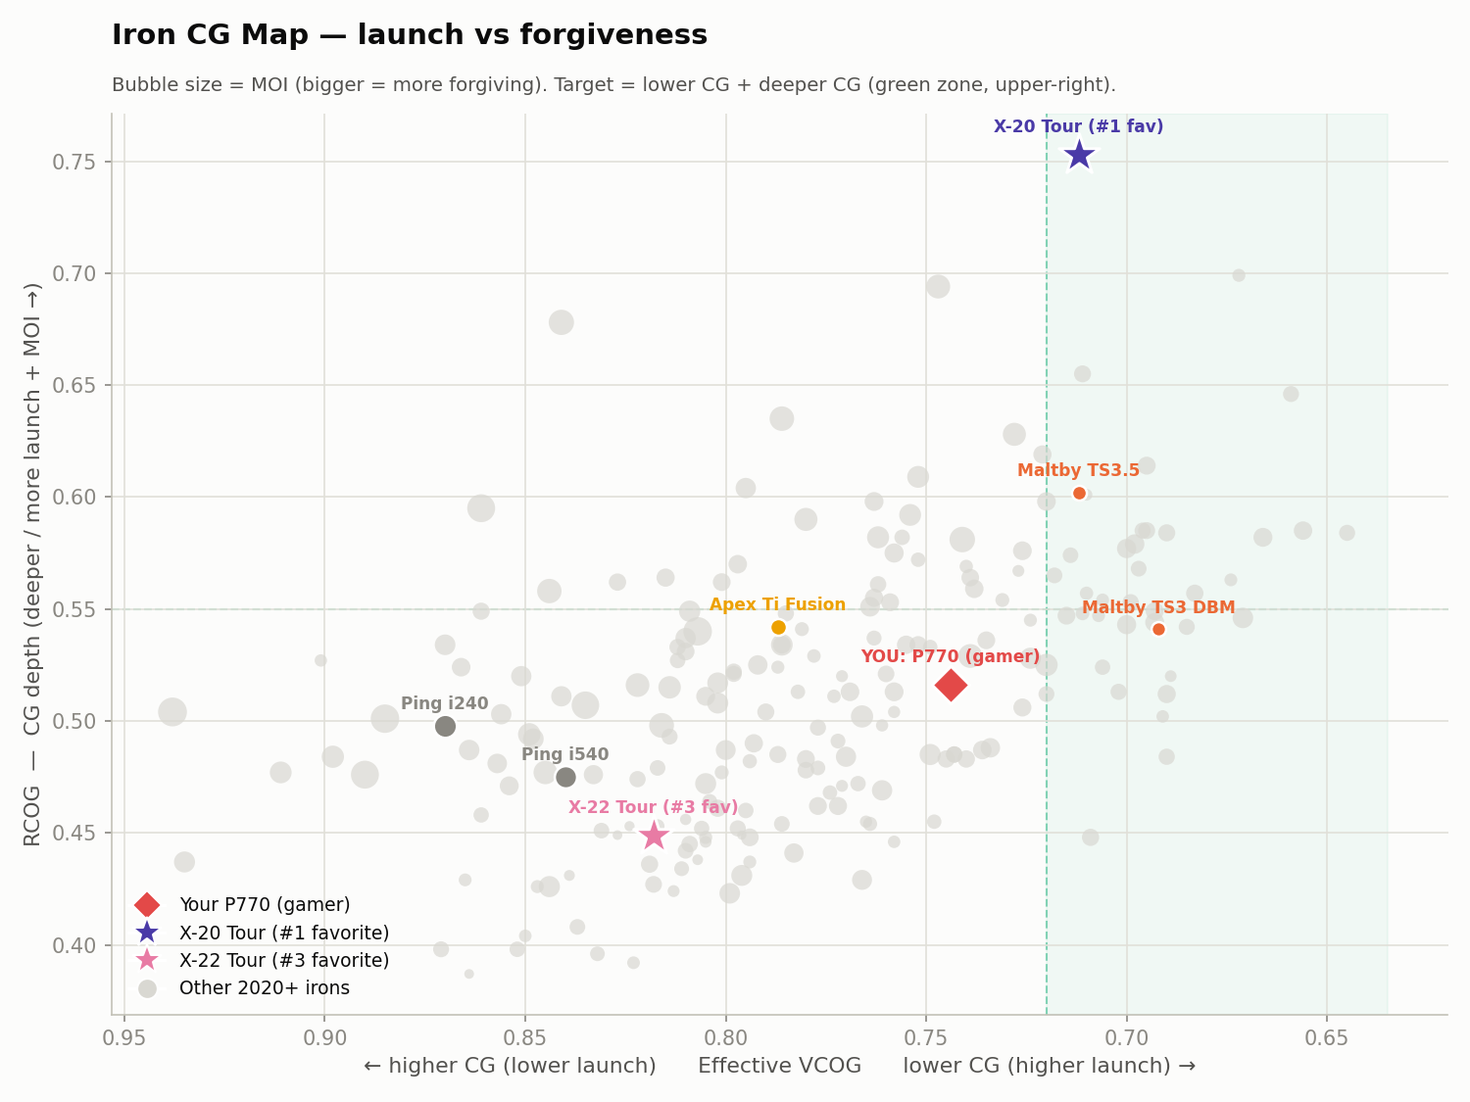
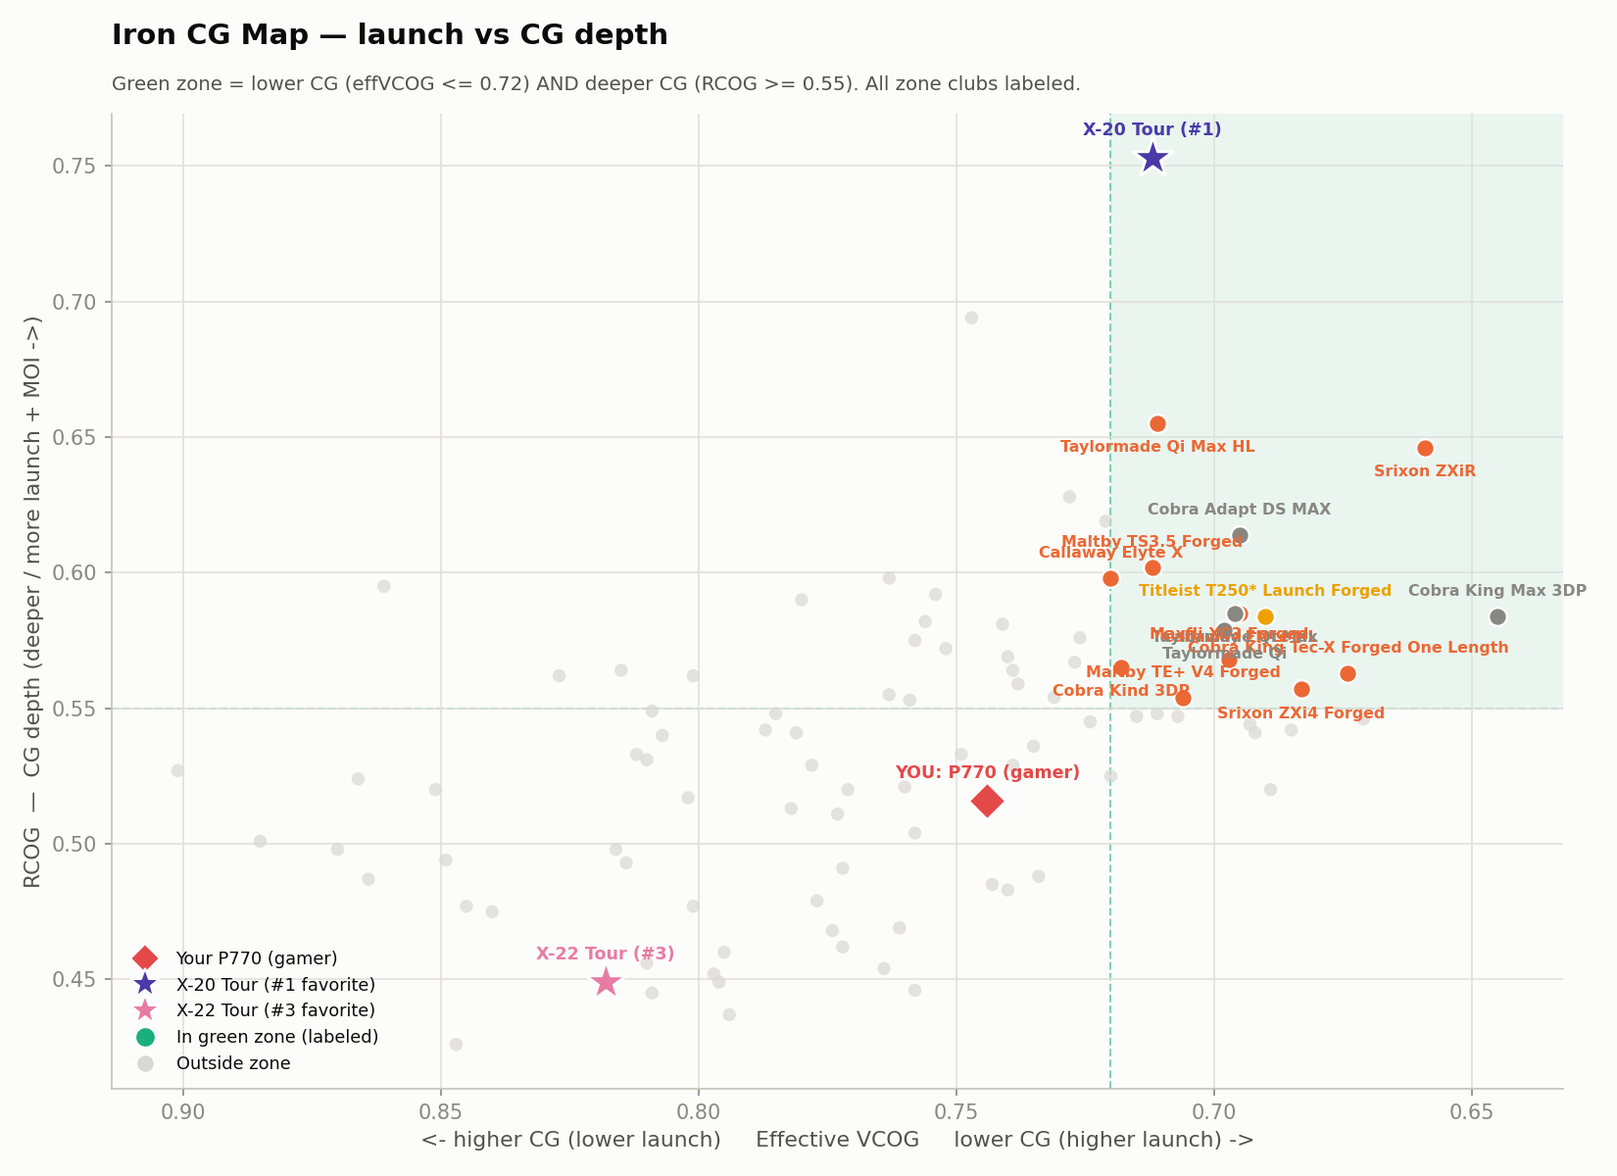
Label all green-zone clubs on charts; default back to 2024+
Charts now color+label every club that falls inside each chart's 2D target zone
(data-driven, not a hand-picked highlight list); everything else is a gray
context dot. Zone shaded as a proper rectangle within data limits. P770 and
X-20/X-22 favorites always marked. Default year window reset to 2024 (--since
to widen).

diff --git a/scripts/plot_iron_charts.py b/scripts/plot_iron_charts.py
@@ -1,38 +1,39 @@
 """Scatter charts for Zach's iron fit, in the dimensions that matter for HIM.
 
 Chart 1  CG Map        : Effective VCOG (launch) vs RCOG (CG depth), bubble = MOI
-Chart 2  Green-holding : robot Spin vs Descent angle (his deficit)
-Chart 3  His two needs : robot Spin vs MOI (forgiveness)
+Chart 2  Green-holding : robot Spin vs Descent angle
+Chart 3  Two needs     : robot Spin vs MOI (forgiveness)
+Chart 4  Actual VCOG vs MOI
+Chart 5  Effective VCOG vs MOI
 
-Each highlights his gamer (P770) and all-time favorite (X-20 Tour) and shades the
-"target zone". Colorblind-safe categorical palette (validated dataviz default).
+Every club that falls in a chart's green TARGET zone is colored (by category) and
+labeled by name; everything else is a light-gray context dot. His gamer (P770) and
+favorites (X-20 / X-22 Tour) are always highlighted. Colorblind-safe palette.
 
-Outputs: outputs/charts/*.png
+Outputs: outputs/charts/*.png    (use --since YYYY to change the CG-chart year window)
 """
 from __future__ import annotations
 import argparse
 import re
 from pathlib import Path
 import pandas as pd
-
-# Year cutoff for the CG charts (1,4,5). The full dataset spans 1928-2026 (1086 irons);
-# default shows the modern field. Override with --since YYYY (or --since 0 for all).
-YEAR_MIN = 2020
 import matplotlib
 matplotlib.use("Agg")
 import matplotlib.pyplot as plt
 from matplotlib.lines import Line2D
+from matplotlib.patches import Rectangle
+
+YEAR_MIN = 2024  # CG charts (1,4,5) show irons with year >= this (--since to change; 0 = all)
 
 ROOT = Path(__file__).resolve().parents[1]
 D = ROOT / "data" / "irons_research"
 OUT = ROOT / "outputs" / "charts"
 OUT.mkdir(parents=True, exist_ok=True)
 
-# --- validated palette (light mode) ---
 SURFACE="#fcfcfb"; INK="#0b0b0b"; INK2="#52514e"; MUTED="#898781"; GRID="#e1e0d9"
 CAT={"Players":"#2a78d6","Players Distance":"#1baf7a","Game Improvement":"#eda100",
-     "Super Game Improvement":"#eb6834","Classic":"#4a3aa7","Conventional":"#898781"}
-YOU="#e34948"; FAV="#4a3aa7"      # your gamer (red), your favorite (violet)
+     "Super Game Improvement":"#eb6834","Classic":"#4a3aa7","Conventional":"#4a3aa7"}
+YOU="#e34948"; FAV="#4a3aa7"; X22C="#e87ba4"; GREEN="#1baf7a"
 
 plt.rcParams.update({"figure.facecolor":SURFACE,"axes.facecolor":SURFACE,
     "font.family":"DejaVu Sans","text.color":INK,"axes.labelcolor":INK2,
@@ -40,6 +41,7 @@ plt.rcParams.update({"figure.facecolor":SURFACE,"axes.facecolor":SURFACE,
 
 
 def na(s): return re.sub(r"[^a-z0-9]","",str(s).lower())
+def clean(m): return re.sub(r"\s*#\s*\d+\b","",str(m)).strip()
 
 
 def style(ax, title, sub, xlab, ylab):
@@ -50,209 +52,143 @@ def style(ax, title, sub, xlab, ylab):
     for s in ("top","right"): ax.spines[s].set_visible(False)
 
 
-def label(ax, x, y, txt, color=INK, dx=0, dy=8):
-    ax.annotate(txt,(x,y),textcoords="offset points",xytext=(dx,dy),ha="center",
-                fontsize=8.2, color=color, fontweight="bold")
+def zone_rect(ax, x_thr, x_dir, y_thr, y_dir):
+    """Shade the 2D target rectangle within the current data limits (call AFTER plotting).
+    x_dir/y_dir: 'low' (<=thr good) or 'high' (>=thr good)."""
+    x0,x1=sorted(ax.get_xlim()); y0,y1=sorted(ax.get_ylim())
+    rx0,rx1=(x0,x_thr) if x_dir=="low" else (x_thr,x1)
+    ry0,ry1=(y_thr,y1) if y_dir=="high" else (y0,y_thr)
+    ax.add_patch(Rectangle((rx0,ry0),rx1-rx0,ry1-ry0,color=GREEN,alpha=0.08,zorder=0,lw=0))
+    ax.axvline(x_thr,color=GREEN,lw=1,ls="--",alpha=0.55,zorder=0)
+    ax.axhline(y_thr,color=GREEN,lw=1,ls="--",alpha=0.55,zorder=0)
+    ax.set_xlim(x0,x1); ax.set_ylim(y0,y1)
 
 
-# ================= Chart 1: CG map =================
+def label_all(ax, df, xcol, ycol):
+    """Color + label every row (used for the in-zone set). Stagger labels to reduce overlap."""
+    rows=[r for _,r in df.iterrows()]
+    rows.sort(key=lambda r:(r[xcol], r[ycol]))
+    for i,r in enumerate(rows):
+        col=CAT.get(r.get("category",""),MUTED)
+        ax.scatter(r[xcol],r[ycol],s=80,c=col,edgecolor="white",lw=1.1,zorder=3)
+        dy=10 if i%2==0 else -14
+        ax.annotate(f"{str(r['brand']).title()} {clean(r['model'])}",(r[xcol],r[ycol]),
+                    textcoords="offset points",xytext=(0,dy),ha="center",fontsize=7.6,
+                    color=col,fontweight="bold",zorder=6)
+
+
+def mark_you(ax, x, y, txt, color, sz=170, mk="D", dy=11):
+    ax.scatter(x,y,s=sz,marker=mk,c=color,edgecolor="white",lw=1.4,zorder=7)
+    ax.annotate(txt,(x,y),textcoords="offset points",xytext=(0,dy),ha="center",
+                fontsize=8.4,color=color,fontweight="bold",zorder=8)
+
+
+def you_legend():
+    return [Line2D([0],[0],marker="D",color="w",markerfacecolor=YOU,markersize=10,label="Your P770 (gamer)"),
+            Line2D([0],[0],marker="*",color="w",markerfacecolor=FAV,markersize=15,label="X-20 Tour (#1 favorite)"),
+            Line2D([0],[0],marker="*",color="w",markerfacecolor=X22C,markersize=15,label="X-22 Tour (#3 favorite)"),
+            Line2D([0],[0],marker="o",color="w",markerfacecolor=GREEN,markersize=10,label="In green zone (labeled)"),
+            Line2D([0],[0],marker="o",color="w",markerfacecolor="#d9d8d2",markersize=9,label="Outside zone")]
+
+
+def maltby_current():
+    s=pd.read_csv(D/"maltby_mpf_brand_specs.csv")
+    for c in ("vcog","vcog_eff","moi","rcog","year"): s[c]=pd.to_numeric(s[c],errors="coerce")
+    cur=s[(s.year>=YEAR_MIN)].dropna(subset=["vcog","vcog_eff","moi","rcog"]).copy()
+    favs=s[((s.brand=="CALLAWAY")&s.model.str.contains("X-20 Tour|X-22 Tour",na=False)) |
+           ((s.brand=="TAYLORMADE")&s.model.str.contains("P770 Forged",na=False)&(s.year==2023))].copy()
+    return cur,favs
+
+
+# ---------- CG-based charts ----------
+def _cg_chart(xcol, ycol, x_thr, x_dir, y_thr, y_dir, title, sub, xlab, ylab, fname, ylead=None):
+    cur,favs=maltby_current()
+    fig,ax=plt.subplots(figsize=(11,8))
+    inzone=cur[_mask(cur,xcol,x_thr,x_dir) & _mask(cur,ycol,y_thr,y_dir)]
+    out=cur.drop(inzone.index)
+    ax.scatter(out[xcol],out[ycol],s=42,c="#d9d8d2",alpha=0.7,edgecolor="none",zorder=1)
+    label_all(ax,inzone,xcol,ycol)
+    # his clubs
+    for _,r in favs.iterrows():
+        yv=r[ycol]
+        if r.brand=="TAYLORMADE": mark_you(ax,r[xcol],yv,"YOU: P770 (gamer)",YOU,170,"D")
+        elif "X-20" in r.model: mark_you(ax,r[xcol],yv,"X-20 Tour (#1)",FAV,440,"*")
+        else: mark_you(ax,r[xcol],yv,"X-22 Tour (#3)",X22C,440,"*")
+    zone_rect(ax,x_thr,x_dir,y_thr,y_dir)
+    if x_dir=="low": ax.invert_xaxis()
+    style(ax,title,sub,xlab,ylab)
+    ax.legend(handles=you_legend(),loc="lower left",frameon=False,fontsize=8.5)
+    fig.tight_layout(); fig.savefig(OUT/fname,dpi=150); plt.close(fig)
+    print(f"wrote outputs/charts/{fname}  ({len(inzone)} clubs in green zone)")
+
+
+def _mask(df,col,thr,d): return df[col]<=thr if d=="low" else df[col]>=thr
+
+
 def cg_map():
-    s = pd.read_csv(D/"maltby_mpf_brand_specs.csv")
-    for c in ("vcog_eff","rcog","moi","year"): s[c]=pd.to_numeric(s[c],errors="coerce")
-    cur = s[(s.year>=YEAR_MIN) & s.vcog_eff.notna() & s.rcog.notna() & s.moi.notna()].copy()
-    favs = s[((s.brand=="CALLAWAY")&s.model.str.contains("X-20 Tour|X-22 Tour",na=False)) |
-             ((s.brand=="TAYLORMADE")&s.model.str.contains("P770 Forged",na=False)&(s.year==2023))].copy()
-    fig,ax=plt.subplots(figsize=(10,7.5))
-    # context: all current as light dots
-    ax.scatter(cur.vcog_eff,cur.rcog,s=(cur.moi-10)*22,c="#d9d8d2",alpha=0.7,edgecolor="none",zorder=1)
-    # shortlist highlights
-    picks={"i240":"Ping i240","qi4dmaxhl":"TM Qi4D Max HL","staffdynapwr":"Wilson Staff Dynapwr",
-           "apextifusion":"Apex Ti Fusion","p790#6":"P790","i540":"Ping i540",
-           "ts35forged":"Maltby TS3.5","ts3dbmblack":"Maltby TS3 DBM"}
-    for _,r in cur.iterrows():
-        key=na(r.model)
-        for tok,nm in picks.items():
-            if tok in key:
-                col=CAT.get(r.category,MUTED)
-                ax.scatter(r.vcog_eff,r.rcog,s=(r.moi-10)*22,c=col,edgecolor="white",lw=1.2,zorder=3)
-                label(ax,r.vcog_eff,r.rcog,nm,col); break
-    # his clubs (each highlighted distinctly)
-    X22="#e87ba4"  # magenta, distinct from X-20's violet
-    for _,r in favs.iterrows():
-        if r.brand=="TAYLORMADE":
-            col,nm,mk,sz=YOU,"YOU: P770 (gamer)","D",170
-        elif "X-20" in r.model:
-            col,nm,mk,sz=FAV,"X-20 Tour (#1 fav)","*",440
-        else:
-            col,nm,mk,sz=X22,"X-22 Tour (#3 fav)","*",440
-        ax.scatter(r.vcog_eff,r.rcog,s=sz,marker=mk,c=col,edgecolor="white",lw=1.4,zorder=5)
-        label(ax,r.vcog_eff,r.rcog,nm,col,dy=11)
-    # target zone: low effVCOG (<=0.72) + deep CG (rcog>=0.55)
-    ax.axvspan(cur.vcog_eff.min()-0.01,0.72,ymin=0,ymax=1,color="#1baf7a",alpha=0.05,zorder=0)
-    ax.axhline(0.55,color="#1baf7a",lw=1,ls="--",alpha=0.5,zorder=0)
-    ax.axvline(0.72,color="#1baf7a",lw=1,ls="--",alpha=0.5,zorder=0)
-    ax.invert_xaxis()  # lower effVCOG (higher launch) to the RIGHT
-    style(ax,"Iron CG Map — launch vs forgiveness",
-          "Bubble size = MOI (bigger = more forgiving). Target = lower CG + deeper CG (green zone, upper-right).",
-          "← higher CG (lower launch)      Effective VCOG      lower CG (higher launch) →",
-          "RCOG  —  CG depth (deeper / more launch + MOI →)")
-    leg=[Line2D([0],[0],marker="D",color="w",markerfacecolor=YOU,markersize=10,label="Your P770 (gamer)"),
-         Line2D([0],[0],marker="*",color="w",markerfacecolor=FAV,markersize=15,label="X-20 Tour (#1 favorite)"),
-         Line2D([0],[0],marker="*",color="w",markerfacecolor="#e87ba4",markersize=15,label="X-22 Tour (#3 favorite)"),
-         Line2D([0],[0],marker="o",color="w",markerfacecolor="#d9d8d2",markersize=10,label=f"Other {YEAR_MIN}+ irons")]
-    ax.legend(handles=leg,loc="lower left",frameon=False,fontsize=9)
-    fig.tight_layout(); fig.savefig(OUT/"1_cg_map.png",dpi=150); plt.close(fig)
-    print("wrote outputs/charts/1_cg_map.png")
+    _cg_chart("vcog_eff","rcog",0.72,"low",0.55,"high",
+        "Iron CG Map — launch vs CG depth",
+        "Green zone = lower CG (effVCOG <= 0.72) AND deeper CG (RCOG >= 0.55). All zone clubs labeled.",
+        "<- higher CG (lower launch)     Effective VCOG     lower CG (higher launch) ->",
+        "RCOG  —  CG depth (deeper / more launch + MOI ->)","1_cg_map.png")
 
-
-# ================= Chart 2: green-holding =================
-def green_holding():
-    gd=pd.read_csv(D/"golfdigest_robot_2026.csv")
-    fig,ax=plt.subplots(figsize=(10,7.5))
-    for cat,g in gd.groupby("category"):
-        ax.scatter(g.spin_rpm,g.descent_deg,s=90,c=CAT.get(cat,MUTED),edgecolor="white",
-                   lw=1,label=cat,zorder=3,alpha=0.9)
-    hi={"i240","Qi4D Max HL","Staff Dynapwr","P790","i540","0311P Gen 8","Apex Ti Fusion"}
-    for _,r in gd.iterrows():
-        if r.model in hi:
-            label(ax,r.spin_rpm,r.descent_deg,f"{r.brand.title()} {r.model}",INK2,dy=8)
-    # his P770 (GC3 @75mph)
-    ax.scatter(4949,39.5,s=300,marker="D",c=YOU,edgecolor="white",lw=1.5,zorder=5)
-    label(ax,4949,39.5,"YOU: P770 (GC3, 75mph)",YOU,dy=-16)
-    # target zone: high spin + steep descent (upper right)
-    ax.axvspan(5500,gd.spin_rpm.max()+150,color="#1baf7a",alpha=0.05)
-    ax.axhline(45,color="#1baf7a",lw=1,ls="--",alpha=0.5)
-    style(ax,"Green-holding — spin vs descent angle (robot, 7i @82mph)",
-          "Your deficit is low spin + shallow descent. Target = upper-right (more spin, steeper landing).",
-          "Backspin (rpm)  →  more spin","Descent angle (deg)  →  steeper / holds greens")
-    ax.legend(loc="lower right",frameon=False,fontsize=9,title="Category")
-    fig.tight_layout(); fig.savefig(OUT/"2_green_holding.png",dpi=150); plt.close(fig)
-    print("wrote outputs/charts/2_green_holding.png")
-
-
-# ================= Chart 3: spin vs MOI =================
-def spin_vs_moi():
-    gd=pd.read_csv(D/"golfdigest_robot_2026.csv")
-    s=pd.read_csv(D/"maltby_mpf_brand_specs.csv"); s["moi"]=pd.to_numeric(s.moi,errors="coerce")
-    s["year"]=pd.to_numeric(s.year,errors="coerce")
-    def moi_for(b,m):
-        sub=s[(s.brand.map(na)==na(b))&(s.year>=2024)]
-        for _,r in sub.iterrows():
-            if na(m)[:5] and (na(m)[:5] in na(r.model) or na(r.model)[:5] in na(m)): return r.moi
-        return None
-    gd["MOI"]=[moi_for(b,m) for b,m in zip(gd.brand,gd.model)]
-    g=gd[gd.MOI.notna()]
-    fig,ax=plt.subplots(figsize=(10,7.5))
-    for cat,gg in g.groupby("category"):
-        ax.scatter(gg.spin_rpm,gg.MOI,s=95,c=CAT.get(cat,MUTED),edgecolor="white",lw=1,label=cat,zorder=3)
-    for _,r in g.iterrows():
-        if r.model in {"i240","Qi4D Max HL","Staff Dynapwr","P790","i540","0311P Gen 8","Apex Ti Fusion","G740"}:
-            label(ax,r.spin_rpm,r.MOI,f"{r.brand.title()} {r.model}",INK2,dy=8)
-    ax.scatter(4949,11.54,s=300,marker="D",c=YOU,edgecolor="white",lw=1.5,zorder=5)
-    label(ax,4949,11.54,"YOU: P770",YOU,dy=-16)
-    ax.axvspan(5500,g.spin_rpm.max()+150,color="#1baf7a",alpha=0.05)
-    ax.axhline(14,color="#1baf7a",lw=1,ls="--",alpha=0.5)
-    style(ax,"Your two needs — spin vs forgiveness (MOI)",
-          "You want BOTH: more spin (green-holding) and higher MOI (forgiveness). Sweet spot = upper-right.",
-          "Backspin (rpm, robot 7i)  →  more spin","MOI (Maltby)  →  more forgiving")
-    ax.legend(loc="upper left",frameon=False,fontsize=9,title="Category")
-    fig.tight_layout(); fig.savefig(OUT/"3_spin_vs_moi.png",dpi=150); plt.close(fig)
-    print("wrote outputs/charts/3_spin_vs_moi.png")
-
-
-# ================= Chart 4: actual VCOG vs MOI =================
 def actual_vcog_vs_moi():
-    s = pd.read_csv(D/"maltby_mpf_brand_specs.csv")
-    for c in ("vcog","moi","year"): s[c]=pd.to_numeric(s[c],errors="coerce")
-    cur = s[(s.year>=YEAR_MIN) & s.vcog.notna() & s.moi.notna()].copy()
-    favs = s[((s.brand=="CALLAWAY")&s.model.str.contains("X-20 Tour|X-22 Tour",na=False)) |
-             ((s.brand=="TAYLORMADE")&s.model.str.contains("P770 Forged",na=False)&(s.year==2023))].copy()
-    fig,ax=plt.subplots(figsize=(10,7.5))
-    ax.scatter(cur.vcog,cur.moi,s=46,c="#d9d8d2",alpha=0.75,edgecolor="none",zorder=1)
-    picks={"i240":"Ping i240","qi4dmaxhl":"TM Qi4D Max HL","staffdynapwr":"Wilson Staff Dynapwr",
-           "apextifusion":"Apex Ti Fusion","p790#6":"P790","i540":"Ping i540",
-           "ts35forged":"Maltby TS3.5","ts3dbmblack":"Maltby TS3 DBM","g740":"Ping G740"}
-    for _,r in cur.iterrows():
-        key=na(r.model)
-        for tok,nm in picks.items():
-            if tok in key:
-                col=CAT.get(r.category,MUTED)
-                ax.scatter(r.vcog,r.moi,s=95,c=col,edgecolor="white",lw=1.2,zorder=3)
-                label(ax,r.vcog,r.moi,nm,col); break
-    X22="#e87ba4"
-    for _,r in favs.iterrows():
-        if r.brand=="TAYLORMADE": col,nm,mk,sz=YOU,"YOU: P770 (gamer)","D",170
-        elif "X-20" in r.model: col,nm,mk,sz=FAV,"X-20 Tour (#1 fav)","*",440
-        else: col,nm,mk,sz=X22,"X-22 Tour (#3 fav)","*",440
-        ax.scatter(r.vcog,r.moi,s=sz,marker=mk,c=col,edgecolor="white",lw=1.4,zorder=5)
-        label(ax,r.vcog,r.moi,nm,col,dy=11)
-    # target zone: lower actual CG + higher MOI (upper-right after x-invert)
-    ax.axvspan(cur.vcog.min()-0.005,0.78,color="#1baf7a",alpha=0.05,zorder=0)
-    ax.axhline(13.5,color="#1baf7a",lw=1,ls="--",alpha=0.5,zorder=0)
-    ax.axvline(0.78,color="#1baf7a",lw=1,ls="--",alpha=0.5,zorder=0)
-    ax.invert_xaxis()  # lower actual VCOG (higher launch) to the RIGHT
-    style(ax,"Actual (Basic) VCOG vs MOI",
-          "Actual measured CG height vs forgiveness. Note: basic VCOG ignores loft — read with the CG map.",
-          "← higher CG (lower launch)     Actual VCOG (in)     lower CG (higher launch) →",
-          "MOI  →  more forgiving")
-    leg=[Line2D([0],[0],marker="D",color="w",markerfacecolor=YOU,markersize=10,label="Your P770 (gamer)"),
-         Line2D([0],[0],marker="*",color="w",markerfacecolor=FAV,markersize=15,label="X-20 Tour (#1 favorite)"),
-         Line2D([0],[0],marker="*",color="w",markerfacecolor="#e87ba4",markersize=15,label="X-22 Tour (#3 favorite)"),
-         Line2D([0],[0],marker="o",color="w",markerfacecolor="#d9d8d2",markersize=10,label=f"Other {YEAR_MIN}+ irons")]
-    ax.legend(handles=leg,loc="lower left",frameon=False,fontsize=9)
-    fig.tight_layout(); fig.savefig(OUT/"4_actual_vcog_vs_moi.png",dpi=150); plt.close(fig)
-    print("wrote outputs/charts/4_actual_vcog_vs_moi.png")
+    _cg_chart("vcog","moi",0.78,"low",13.5,"high",
+        "Actual (Basic) VCOG vs MOI",
+        "Green zone = lower basic CG (VCOG <= 0.78) AND MOI >= 13.5. All zone clubs labeled.",
+        "<- higher CG (lower launch)     Actual VCOG (in)     lower CG (higher launch) ->",
+        "MOI  ->  more forgiving","4_actual_vcog_vs_moi.png")
 
-
-# ================= Chart 5: effective VCOG vs MOI =================
 def eff_vcog_vs_moi():
-    s = pd.read_csv(D/"maltby_mpf_brand_specs.csv")
-    for c in ("vcog_eff","moi","year"): s[c]=pd.to_numeric(s[c],errors="coerce")
-    cur = s[(s.year>=YEAR_MIN) & s.vcog_eff.notna() & s.moi.notna()].copy()
-    favs = s[((s.brand=="CALLAWAY")&s.model.str.contains("X-20 Tour|X-22 Tour",na=False)) |
-             ((s.brand=="TAYLORMADE")&s.model.str.contains("P770 Forged",na=False)&(s.year==2023))].copy()
-    fig,ax=plt.subplots(figsize=(10,7.5))
-    ax.scatter(cur.vcog_eff,cur.moi,s=46,c="#d9d8d2",alpha=0.75,edgecolor="none",zorder=1)
-    picks={"i240":"Ping i240","qi4dmaxhl":"TM Qi4D Max HL","staffdynapwr":"Wilson Staff Dynapwr",
-           "apextifusion":"Apex Ti Fusion","p790#6":"P790","i540":"Ping i540",
-           "ts35forged":"Maltby TS3.5","ts3dbmblack":"Maltby TS3 DBM","g740":"Ping G740"}
-    for _,r in cur.iterrows():
-        key=na(r.model)
-        for tok,nm in picks.items():
-            if tok in key:
-                col=CAT.get(r.category,MUTED)
-                ax.scatter(r.vcog_eff,r.moi,s=95,c=col,edgecolor="white",lw=1.2,zorder=3)
-                label(ax,r.vcog_eff,r.moi,nm,col); break
-    X22="#e87ba4"
-    for _,r in favs.iterrows():
-        if r.brand=="TAYLORMADE": col,nm,mk,sz=YOU,"YOU: P770 (gamer)","D",170
-        elif "X-20" in r.model: col,nm,mk,sz=FAV,"X-20 Tour (#1 fav)","*",440
-        else: col,nm,mk,sz=X22,"X-22 Tour (#3 fav)","*",440
-        ax.scatter(r.vcog_eff,r.moi,s=sz,marker=mk,c=col,edgecolor="white",lw=1.4,zorder=5)
-        label(ax,r.vcog_eff,r.moi,nm,col,dy=11)
-    # target zone: low effVCOG (<=0.72, higher launch) + high MOI (>=13.5)
-    ax.axvspan(cur.vcog_eff.min()-0.005,0.72,color="#1baf7a",alpha=0.05,zorder=0)
-    ax.axhline(13.5,color="#1baf7a",lw=1,ls="--",alpha=0.5,zorder=0)
-    ax.axvline(0.72,color="#1baf7a",lw=1,ls="--",alpha=0.5,zorder=0)
-    ax.invert_xaxis()  # lower effective VCOG (higher launch) to the RIGHT
-    style(ax,"Effective VCOG vs MOI — your two design levers",
-          "Effective VCOG = Basic + Adjusted (loft-correct launch). Target = higher launch + higher MOI (green zone, upper-right).",
-          "← higher CG (lower launch)   Effective VCOG   lower CG (higher launch) →",
-          "MOI  →  more forgiving")
-    leg=[Line2D([0],[0],marker="D",color="w",markerfacecolor=YOU,markersize=10,label="Your P770 (gamer)"),
-         Line2D([0],[0],marker="*",color="w",markerfacecolor=FAV,markersize=15,label="X-20 Tour (#1 favorite)"),
-         Line2D([0],[0],marker="*",color="w",markerfacecolor="#e87ba4",markersize=15,label="X-22 Tour (#3 favorite)"),
-         Line2D([0],[0],marker="o",color="w",markerfacecolor="#d9d8d2",markersize=10,label=f"Other {YEAR_MIN}+ irons")]
-    ax.legend(handles=leg,loc="lower left",frameon=False,fontsize=9)
-    fig.tight_layout(); fig.savefig(OUT/"5_eff_vcog_vs_moi.png",dpi=150); plt.close(fig)
-    print("wrote outputs/charts/5_eff_vcog_vs_moi.png")
+    _cg_chart("vcog_eff","moi",0.72,"low",13.5,"high",
+        "Effective VCOG vs MOI — your two design levers",
+        "Green zone = higher launch (effVCOG <= 0.72) AND MOI >= 13.5. All zone clubs labeled.",
+        "<- higher CG (lower launch)     Effective VCOG     lower CG (higher launch) ->",
+        "MOI  ->  more forgiving","5_eff_vcog_vs_moi.png")
+
+
+# ---------- robot charts ----------
+def _robot(ycol, y_thr, title, sub, ylab, fname, need_moi=False):
+    gd=pd.read_csv(D/"golfdigest_robot_2026.csv")
+    gd["spin_rpm"]=pd.to_numeric(gd.spin_rpm,errors="coerce")
+    gd[ycol]=pd.to_numeric(gd[ycol],errors="coerce") if ycol in gd else None
+    if need_moi:
+        s=pd.read_csv(D/"maltby_mpf_brand_specs.csv"); s["moi"]=pd.to_numeric(s.moi,errors="coerce"); s["year"]=pd.to_numeric(s.year,errors="coerce")
+        def moi_for(b,m):
+            sub=s[(s.brand.map(na)==na(b))&(s.year>=2024)]
+            for _,r in sub.iterrows():
+                if na(m)[:5] and (na(m)[:5] in na(r.model) or na(r.model)[:5] in na(m)): return r.moi
+            return None
+        gd["MOI"]=[moi_for(b,m) for b,m in zip(gd.brand,gd.model)]; ycol="MOI"; gd=gd.dropna(subset=["MOI"])
+    fig,ax=plt.subplots(figsize=(11,8))
+    inzone=gd[(gd.spin_rpm>=5500)&(gd[ycol]>=y_thr)]
+    out=gd.drop(inzone.index)
+    ax.scatter(out.spin_rpm,out[ycol],s=48,c="#d9d8d2",alpha=0.75,edgecolor="none",zorder=1)
+    label_all(ax,inzone,"spin_rpm",ycol)
+    mark_you(ax,4949,(39.5 if ycol=="descent_deg" else 11.54),
+             "YOU: P770 (GC3, 75mph)"+("" if ycol=="descent_deg" else " MOI"),YOU,300,"D",-16)
+    zone_rect(ax,5500,"high",y_thr,"high")
+    style(ax,title,sub,"Backspin (rpm, robot 7i @82mph)  ->  more spin",ylab)
+    ax.legend(handles=you_legend()[:1]+you_legend()[3:],loc="lower right",frameon=False,fontsize=8.5)
+    fig.tight_layout(); fig.savefig(OUT/fname,dpi=150); plt.close(fig)
+    print(f"wrote outputs/charts/{fname}  ({len(inzone)} clubs in green zone)")
+
+
+def green_holding():
+    _robot("descent_deg",45.0,
+        "Green-holding — spin vs descent angle (robot 7i @82mph)",
+        "Green zone = spin >= 5,500 AND descent >= 45 deg. All zone clubs labeled.",
+        "Descent angle (deg)  ->  steeper / holds greens","2_green_holding.png")
+
+def spin_vs_moi():
+    _robot("MOI",14.0,
+        "Your two needs — spin vs forgiveness (MOI)",
+        "Green zone = spin >= 5,500 AND MOI >= 14. All zone clubs labeled.",
+        "MOI (Maltby)  ->  more forgiving","3_spin_vs_moi.png",need_moi=True)
 
 
 if __name__ == "__main__":
-    ap = argparse.ArgumentParser()
-    ap.add_argument("--since", type=int, default=YEAR_MIN,
-                    help="min model year for CG charts (0 = all 1928-2026)")
-    args = ap.parse_args()
-    YEAR_MIN = args.since
-    print(f"CG charts show irons with year >= {YEAR_MIN}")
-    cg_map(); green_holding(); spin_vs_moi(); actual_vcog_vs_moi(); eff_vcog_vs_moi()
+    ap=argparse.ArgumentParser(); ap.add_argument("--since",type=int,default=YEAR_MIN)
+    YEAR_MIN=ap.parse_args().since
+    print(f"CG charts: year >= {YEAR_MIN}")
+    cg_map(); actual_vcog_vs_moi(); eff_vcog_vs_moi(); green_holding(); spin_vs_moi()
